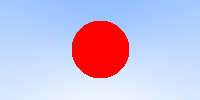
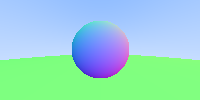
Chapter 5: Surface normals

diff --git a/src/main.rs b/src/main.rs
@@ -4,30 +4,28 @@ extern crate image;
 extern crate nalgebra as na;
 
 pub mod ray;
+pub mod hitable;
 
+use na::{Vector3 as Vec3, Unit};
 use std::fs::File;
 use std::path::Path;
-use na::{Vector3 as Vec3, Unit};
+use std::f64::MAX as FLOAT_MAX;
+
+use hitable::sphere::Sphere;
+use hitable::hit_record::HitRecord;
+use hitable::hitable::Hitable;
+use hitable::hitable_list::HitableList;
 use ray::Ray;
 
-fn hit_sphere(center: Vec3<f64>, radius: f64, ray: &Ray) -> bool {
-    let oc = ray.origin - center;
-    let a = na::dot(&ray.direction, &ray.direction);
-    let b = 2.0 * na::dot(&oc, &ray.direction);
-    let c = na::dot(&oc, &oc) - radius * radius;
-    let discriminant = b * b - 4.0 * a * c;
-
-    discriminant > 0.0
-}
-
-fn get_color(ray: &Ray) -> Vec3<f64> {
-    if hit_sphere(Vec3::new(0.0, 0.0, -1.0), 0.5, ray) {
-        return Vec3::new(1.0, 0.0, 0.0);
+fn get_color(ray: &Ray, world: &HitableList) -> Vec3<f64> {
+    let ref mut rec = HitRecord::new();
+    if world.hit(ray, 0.0, FLOAT_MAX, rec) {
+        return 0.5 * Vec3::new(rec.normal.x + 1.0, rec.normal.y + 1.0, rec.normal.z + 1.0);
+    } else {
+        let unit_direction = Unit::new_normalize(ray.direction).unwrap();
+        let t = 0.5 * (unit_direction.y + 1.0);
+        return (1.0 - t) * Vec3::new(1.0, 1.0, 1.0) + t * Vec3::new(0.5, 0.7, 1.0);
     }
-    let unit_direction = Unit::new_normalize(ray.direction).unwrap();
-    let t = 0.5 * (unit_direction.y + 1.0);
-
-    (1.0 - t) * Vec3::new(1.0, 1.0, 1.0) + t * Vec3::new(0.5, 0.7, 1.0)
 }
 
 fn main() {
@@ -39,6 +37,16 @@ fn main() {
     let horizontal = Vec3::new(4.0, 0.0, 0.0);
     let vertical = Vec3::new(0.0, 2.0, 0.0);
     let origin = Vec3::new(0.0, 0.0, 0.0);
+    let world = HitableList {
+        list: vec![Box::new(Sphere {
+                       center: Vec3::new(0.0, 0.0, -1.0),
+                       radius: 0.5,
+                   }),
+                   Box::new(Sphere {
+                       center: Vec3::new(0.0, -100.5, -1.0),
+                       radius: 100.0,
+                   })],
+    };
 
     for y in 0..numY {
         for x in 0..numX {
@@ -48,7 +56,7 @@ fn main() {
                 origin: origin,
                 direction: lowerLeftCorner + u * horizontal + v * vertical,
             };
-            let color = get_color(&ray);
+            let color = get_color(&ray, &world);
             let pixel = image::Rgb([(color.x * 255.99) as u8,
                                     (color.y * 255.99) as u8,
                                     (color.z * 255.99) as u8]);

diff --git a/src/hitable/sphere.rs b/src/hitable/sphere.rs
@@ -1,0 +1,39 @@
+use na::{Vector3 as Vec3, dot};
+
+use ray::Ray;
+use hitable::hit_record::HitRecord;
+use hitable::hitable::Hitable;
+
+pub struct Sphere {
+    pub center: Vec3<f64>,
+    pub radius: f64,
+}
+
+impl Hitable for Sphere {
+    fn hit(&self, ray: &Ray, t_min: f64, t_max: f64, rec: &mut HitRecord) -> bool {
+        let oc = ray.origin - self.center;
+        let a = dot(&ray.direction, &ray.direction);
+        let b = dot(&oc, &ray.direction);
+        let c = dot(&oc, &oc) - (self.radius * self.radius);
+        let discriminant = (b * b) - (a * c);
+        if discriminant > 0.0 {
+            let mut temp = (-b - discriminant.sqrt()) / a;
+            if temp < t_max && temp > t_min {
+                rec.t = temp;
+                rec.hit_point = ray.point_at_param(rec.t);
+                rec.normal = (rec.hit_point - self.center) / self.radius;
+                return true;
+            }
+            temp = (-b + discriminant.sqrt()) / a;
+            if temp < t_max && temp > t_min {
+                rec.t = temp;
+                rec.hit_point = ray.point_at_param(rec.t);
+                rec.normal = (rec.hit_point - self.center) / self.radius;
+                return true;
+            }
+            return false;
+        } else {
+            return false;
+        }
+    }
+}

diff --git a/src/hitable/hitable_list.rs b/src/hitable/hitable_list.rs
@@ -1,0 +1,22 @@
+use ray::Ray;
+use hitable::hit_record::HitRecord;
+use hitable::hitable::Hitable;
+
+pub struct HitableList {
+    pub list: Vec<Box<Hitable>>,
+}
+
+impl Hitable for HitableList {
+    fn hit(&self, ray: &Ray, t_min: f64, t_max: f64, rec: &mut HitRecord) -> bool {
+        let mut hit = false;
+        let mut currentClosest = t_max;
+        for obj in self.list.iter() {
+            if obj.hit(ray, t_min, currentClosest, rec) {
+                hit = true;
+                currentClosest = rec.t;
+            }
+        }
+
+        hit
+    }
+}

diff --git a/src/hitable/hit_record.rs b/src/hitable/hit_record.rs
@@ -1,0 +1,17 @@
+use na::Vector3 as Vec3;
+
+pub struct HitRecord {
+    pub t: f64,
+    pub hit_point: Vec3<f64>,
+    pub normal: Vec3<f64>,
+}
+
+impl HitRecord {
+    pub fn new() -> Self {
+        HitRecord {
+            t: -1.0,
+            hit_point: Vec3::new(0.0, 0.0, 0.0),
+            normal: Vec3::new(0.0, 0.0, 0.0),
+        }
+    }
+}

diff --git a/src/hitable/hitable.rs b/src/hitable/hitable.rs
@@ -1,0 +1,6 @@
+use ray::Ray;
+use hitable::hit_record::HitRecord;
+
+pub trait Hitable {
+    fn hit(&self, ray: &Ray, t_min: f64, t_max: f64, rec: &mut HitRecord) -> bool;
+}

diff --git a/src/hitable/mod.rs b/src/hitable/mod.rs
@@ -1,0 +1,4 @@
+pub mod hit_record;
+pub mod sphere;
+pub mod hitable;
+pub mod hitable_list;
